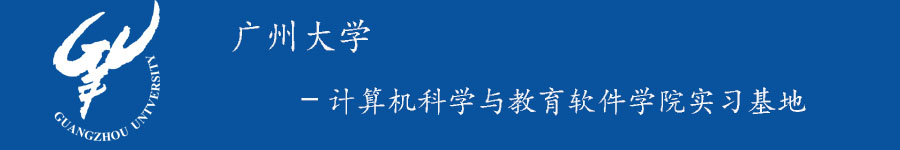
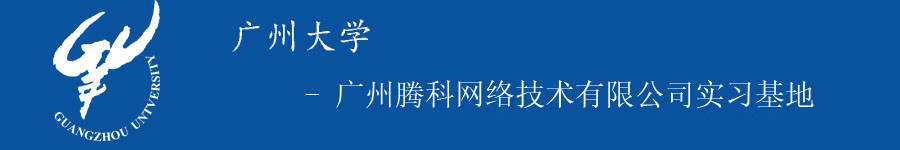
优化

Changed region(s): [[0.3111, 0.5333, 0.9022, 0.7733]]

diff --git a/swebsite-master/page2/page21.html b/swebsite-master/page2/page21.html
@@ -2,7 +2,7 @@
 <html xmlns="http://www.w3.org/1999/xhtml">
 <head>
     <meta http-equiv="Content-Type" content="text/html; charset=utf-8" />
-    <title>广州大学-计算机科学与教育软件学院实习基地</title>
+    <title>广州大学—广州腾科网络技术有限公司实习基地</title>
     <link rel="stylesheet" type="text/css" href="../css/common.css" />
     <link rel="stylesheet" type="text/css" href="../css/style.css" />
     <link rel="stylesheet" type="text/css" href="../css/myIcon.css" />

diff --git a/swebsite-master/page2/page22.html b/swebsite-master/page2/page22.html
@@ -2,7 +2,7 @@
 <html xmlns="http://www.w3.org/1999/xhtml">
 <head>
     <meta http-equiv="Content-Type" content="text/html; charset=utf-8" />
-    <title>广州大学-计算机科学与教育软件学院实习基地</title>
+    <title>广州大学—广州腾科网络技术有限公司实习基地</title>
     <link rel="stylesheet" type="text/css" href="../css/common.css" />
     <link rel="stylesheet" type="text/css" href="../css/style.css" />
     <link rel="stylesheet" type="text/css" href="../css/myIcon.css" />

diff --git a/swebsite-master/page2/page23.html b/swebsite-master/page2/page23.html
@@ -2,7 +2,7 @@
 <html xmlns="http://www.w3.org/1999/xhtml">
 <head>
     <meta http-equiv="Content-Type" content="text/html; charset=utf-8" />
-    <title>广州大学-计算机科学与教育软件学院实习基地</title>
+    <title>广州大学—广州腾科网络技术有限公司实习基地</title>
     <link rel="stylesheet" type="text/css" href="../css/common.css" />
     <link rel="stylesheet" type="text/css" href="../css/style.css" />
     <link rel="stylesheet" type="text/css" href="../css/myIcon.css" />

diff --git a/swebsite-master/page3/page31.html b/swebsite-master/page3/page31.html
@@ -2,7 +2,7 @@
 <html xmlns="http://www.w3.org/1999/xhtml">
 <head>
     <meta http-equiv="Content-Type" content="text/html; charset=utf-8" />
-    <title>广州大学-计算机科学与教育软件学院实习基地</title>
+    <title>广州大学—广州腾科网络技术有限公司实习基地</title>
     <link rel="stylesheet" type="text/css" href="../css/common.css" />
     <link rel="stylesheet" type="text/css" href="../css/style.css" />
     <link rel="stylesheet" type="text/css" href="../css/myIcon.css" />

diff --git a/swebsite-master/page3/page32.html b/swebsite-master/page3/page32.html
@@ -2,7 +2,7 @@
 <html xmlns="http://www.w3.org/1999/xhtml">
 <head>
     <meta http-equiv="Content-Type" content="text/html; charset=utf-8" />
-    <title>广州大学-计算机科学与教育软件学院实习基地</title>
+    <title>广州大学—广州腾科网络技术有限公司实习基地</title>
     <link rel="stylesheet" type="text/css" href="../css/common.css" />
     <link rel="stylesheet" type="text/css" href="../css/style.css" />
     <link rel="stylesheet" type="text/css" href="../css/myIcon.css" />

diff --git a/swebsite-master/page3/page33.html b/swebsite-master/page3/page33.html
@@ -2,7 +2,7 @@
 <html xmlns="http://www.w3.org/1999/xhtml">
 <head>
     <meta http-equiv="Content-Type" content="text/html; charset=utf-8" />
-    <title>广州大学-计算机科学与教育软件学院实习基地</title>
+    <title>广州大学—广州腾科网络技术有限公司实习基地</title>
     <link rel="stylesheet" type="text/css" href="../css/common.css" />
     <link rel="stylesheet" type="text/css" href="../css/style.css" />
     <link rel="stylesheet" type="text/css" href="../css/myIcon.css" />

diff --git a/swebsite-master/page0/page01.html b/swebsite-master/page0/page01.html
@@ -2,7 +2,7 @@
 <html xmlns="http://www.w3.org/1999/xhtml">
 <head>
 	<meta http-equiv="Content-Type" content="text/html; charset=utf-8" />
-	<title>广州大学-计算机科学与教育软件学院实习基地</title>
+	<title>广州大学—广州腾科网络技术有限公司实习基地</title>
     <link rel="stylesheet" type="text/css" href="../css/common.css" />
     <link rel="stylesheet" type="text/css" href="../css/style.css" />
     <link rel="stylesheet" type="text/css" href="../css/myIcon.css" />

diff --git a/swebsite-master/page0/page02.html b/swebsite-master/page0/page02.html
@@ -2,7 +2,7 @@
 <html xmlns="http://www.w3.org/1999/xhtml">
 <head>
 	<meta http-equiv="Content-Type" content="text/html; charset=utf-8" />
-	<title>广州大学-计算机科学与教育软件学院实习基地</title>
+	<title>广州大学—广州腾科网络技术有限公司实习基地</title>
     <link rel="stylesheet" type="text/css" href="../css/common.css" />
     <link rel="stylesheet" type="text/css" href="../css/style.css" />
     <link rel="stylesheet" type="text/css" href="../css/myIcon.css" />

diff --git a/swebsite-master/page0/page03.html b/swebsite-master/page0/page03.html
@@ -2,7 +2,7 @@
 <html xmlns="http://www.w3.org/1999/xhtml">
 <head>
 	<meta http-equiv="Content-Type" content="text/html; charset=utf-8" />
-	<title>广州大学-计算机科学与教育软件学院实习基地</title>
+	<title>广州大学—广州腾科网络技术有限公司实习基地</title>
     <link rel="stylesheet" type="text/css" href="../css/common.css" />
     <link rel="stylesheet" type="text/css" href="../css/style.css" />
     <link rel="stylesheet" type="text/css" href="../css/myIcon.css" />

diff --git a/swebsite-master/page0/page04.html b/swebsite-master/page0/page04.html
@@ -2,7 +2,7 @@
 <html xmlns="http://www.w3.org/1999/xhtml">
 <head>
 	<meta http-equiv="Content-Type" content="text/html; charset=utf-8" />
-	<title>广州大学-计算机科学与教育软件学院实习基地</title>
+	<title>广州大学—广州腾科网络技术有限公司实习基地</title>
     <link rel="stylesheet" type="text/css" href="../css/common.css" />
     <link rel="stylesheet" type="text/css" href="../css/style.css" />
     <link rel="stylesheet" type="text/css" href="../css/myIcon.css" />

diff --git a/swebsite-master/page1/page10.html b/swebsite-master/page1/page10.html
@@ -2,7 +2,7 @@
 <html xmlns="http://www.w3.org/1999/xhtml">
 <head>
 	<meta http-equiv="Content-Type" content="text/html; charset=utf-8" />
-	<title>广州大学-计算机科学与教育软件学院实习基地</title>
+	<title>广州大学—广州腾科网络技术有限公司实习基地</title>
 	<link rel="stylesheet" type="text/css" href="../css/common.css" />
     <link rel="stylesheet" type="text/css" href="../css/style.css" />
     <link rel="stylesheet" type="text/css" href="../css/myIcon.css" />

diff --git a/swebsite-master/page1/page11.html b/swebsite-master/page1/page11.html
@@ -2,7 +2,7 @@
 <html xmlns="http://www.w3.org/1999/xhtml">
 <head>
 	<meta http-equiv="Content-Type" content="text/html; charset=utf-8" />
-	<title>广州大学-计算机科学与教育软件学院实习基地</title>
+	<title>广州大学—广州腾科网络技术有限公司实习基地</title>
 	<link rel="stylesheet" type="text/css" href="../css/common.css" />
     <link rel="stylesheet" type="text/css" href="../css/style.css" />
     <link rel="stylesheet" type="text/css" href="../css/myIcon.css" />
